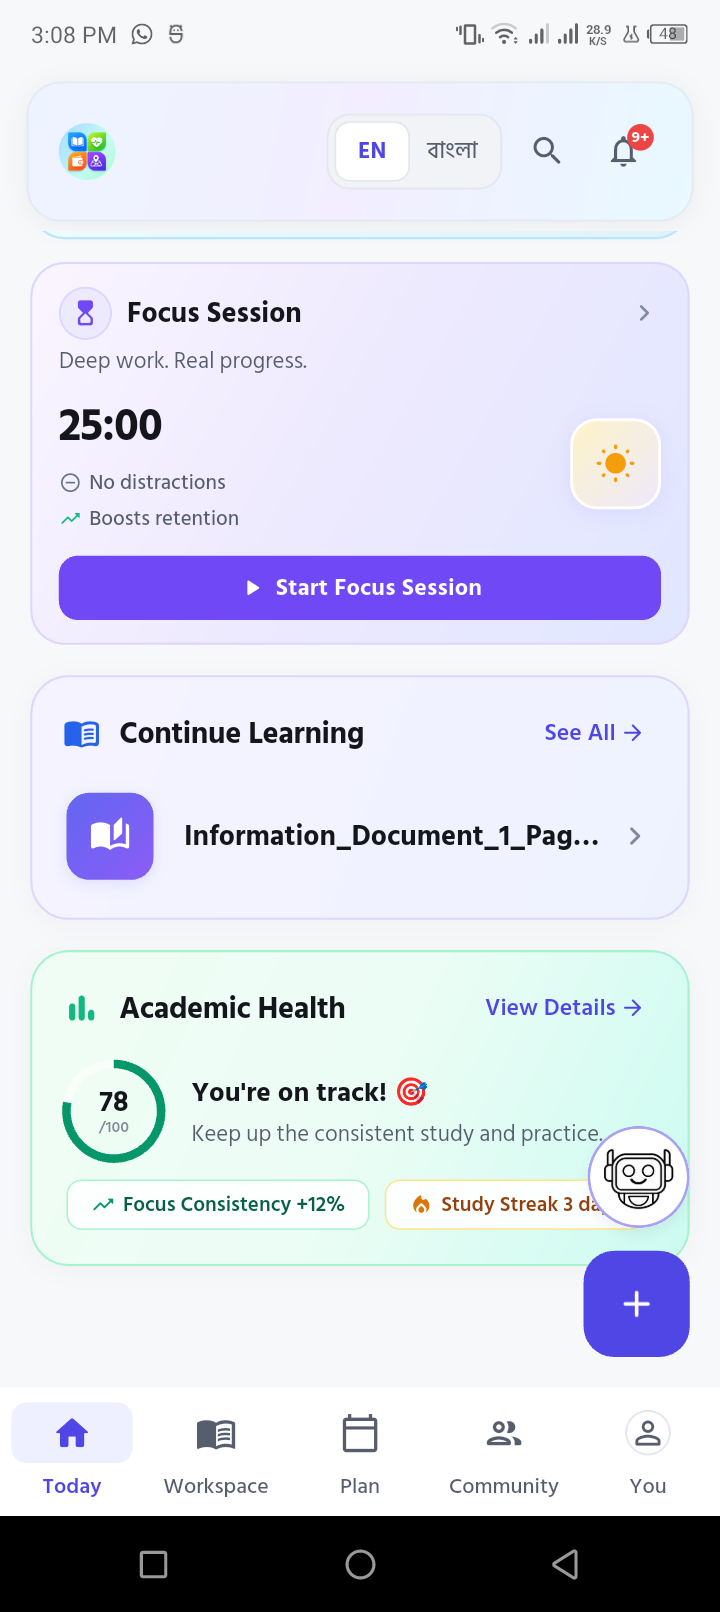
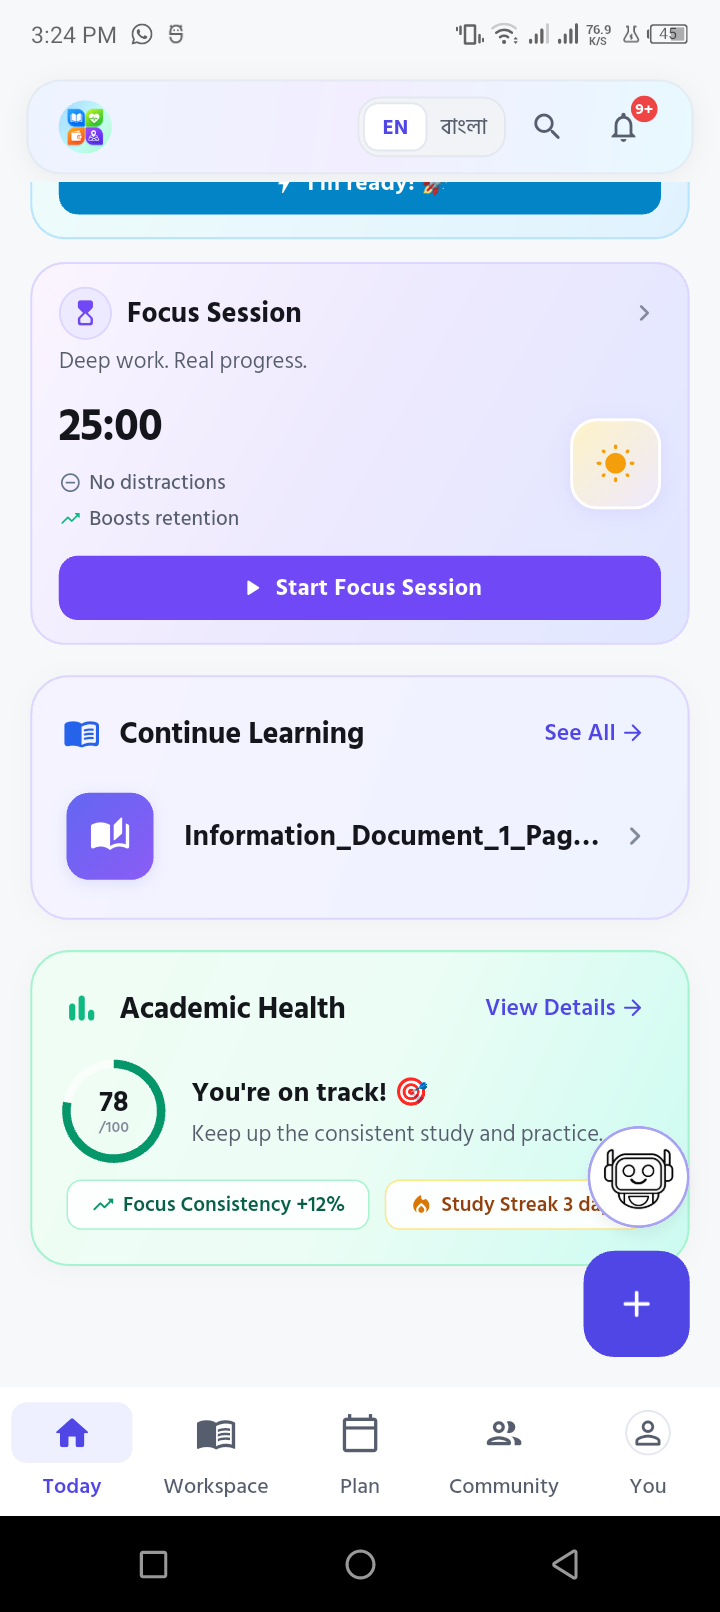
refactor(ui): streamline Today app bar height and density

Changed region(s): [[0.0611, 0.062, 0.9167, 0.1551], [0.0611, 0.0, 0.0917, 0.031]]

diff --git a/flutter_app/lib/features/study/presentation/today/study_today_dashboard_view.dart b/flutter_app/lib/features/study/presentation/today/study_today_dashboard_view.dart
@@ -98,7 +98,7 @@ class _StudyTodayDashboardViewState extends State<StudyTodayDashboardView> {
                   return Padding(
                     padding: EdgeInsets.symmetric(
                       horizontal: horizontalInset,
-                      vertical: 5.0,
+                      vertical: 4.0,
                     ),
                     child: Container(
                       decoration: BoxDecoration(
@@ -122,7 +122,7 @@ class _StudyTodayDashboardViewState extends State<StudyTodayDashboardView> {
                       ),
                       padding: const EdgeInsets.symmetric(
                         horizontal: GochanoSpacing.md,
-                        vertical: GochanoSpacing.xs,
+                        vertical: 4.0,
                       ),
                       child: _buildHeader(context),
                     ),
@@ -235,7 +235,7 @@ class _StudyTodayDashboardViewState extends State<StudyTodayDashboardView> {
     return LayoutBuilder(
       builder: (context, constraints) {
         final isVeryNarrow = constraints.maxWidth < 340;
-        final logoSize = isVeryNarrow ? 30.0 : 34.0;
+        final logoSize = isVeryNarrow ? 28.0 : 30.0;
 
         return Row(
           children: [
@@ -253,7 +253,7 @@ class _StudyTodayDashboardViewState extends State<StudyTodayDashboardView> {
                 errorBuilder: (context, error, stackTrace) => Icon(
                   Icons.school_rounded,
                   color: const Color(0xFF2F6BFF),
-                  size: isVeryNarrow ? 20 : 24,
+                  size: isVeryNarrow ? 18 : 20,
                 ),
               ),
             ),
@@ -261,8 +261,8 @@ class _StudyTodayDashboardViewState extends State<StudyTodayDashboardView> {
             const Spacer(),
 
             // RIGHT: Controls
-            const LanguageToggle(),
-            const SizedBox(width: 4),
+            const LanguageToggle(isCompact: true),
+            const SizedBox(width: 2),
 
             // Search icon
             IconButton(
@@ -272,12 +272,12 @@ class _StudyTodayDashboardViewState extends State<StudyTodayDashboardView> {
                 );
               },
               tooltip: GochanoLanguage.text('Search', 'অনুসন্ধান'),
-              icon: Icon(Icons.search_rounded, size: isVeryNarrow ? 20 : 22),
-              padding: isVeryNarrow ? const EdgeInsets.all(4) : const EdgeInsets.all(8),
+              icon: Icon(Icons.search_rounded, size: isVeryNarrow ? 19 : 20),
+              padding: const EdgeInsets.all(4),
               visualDensity: VisualDensity.compact,
-              constraints: BoxConstraints(
-                minWidth: isVeryNarrow ? 32 : 38,
-                minHeight: isVeryNarrow ? 32 : 38,
+              constraints: const BoxConstraints(
+                minWidth: 32,
+                minHeight: 32,
               ),
             ),
 
@@ -302,21 +302,19 @@ class _StudyTodayDashboardViewState extends State<StudyTodayDashboardView> {
                       ),
                       icon: Icon(
                         Icons.notifications_outlined,
-                        size: isVeryNarrow ? 20 : 22,
+                        size: isVeryNarrow ? 19 : 20,
                       ),
-                      padding: isVeryNarrow
-                          ? const EdgeInsets.all(4)
-                          : const EdgeInsets.all(8),
+                      padding: const EdgeInsets.all(4),
                       visualDensity: VisualDensity.compact,
-                      constraints: BoxConstraints(
-                        minWidth: isVeryNarrow ? 32 : 38,
-                        minHeight: isVeryNarrow ? 32 : 38,
+                      constraints: const BoxConstraints(
+                        minWidth: 32,
+                        minHeight: 32,
                       ),
                     ),
                     if (unreadCount > 0)
                       Positioned(
-                        top: 4,
-                        right: 4,
+                        top: 2,
+                        right: 2,
                         child: Container(
                           padding: const EdgeInsets.all(2),
                           decoration: const BoxDecoration(

diff --git a/flutter_app/lib/widgets/language_toggle.dart b/flutter_app/lib/widgets/language_toggle.dart
@@ -16,7 +16,12 @@ import '../core/design_system/gochano_typography.dart';
 import '../core/localization/gochano_language.dart';
 
 class LanguageToggle extends StatelessWidget {
-  const LanguageToggle({super.key});
+  const LanguageToggle({
+    super.key,
+    this.isCompact = false,
+  });
+
+  final bool isCompact;
 
   @override
   Widget build(BuildContext context) {
@@ -26,9 +31,11 @@ class LanguageToggle extends StatelessWidget {
       valueListenable: GochanoLanguage.current,
       builder: (context, currentLocale, _) {
         return Padding(
-          padding: const EdgeInsets.symmetric(vertical: GochanoSpacing.xs),
+          padding: EdgeInsets.symmetric(
+            vertical: isCompact ? 0 : GochanoSpacing.xs,
+          ),
           child: Container(
-            padding: const EdgeInsets.all(3),
+            padding: EdgeInsets.all(isCompact ? 2 : 3),
             decoration: BoxDecoration(
               color: colors.surfaceVariant,
               borderRadius: BorderRadius.circular(GochanoRadius.md),
@@ -38,7 +45,11 @@ class LanguageToggle extends StatelessWidget {
               mainAxisSize: MainAxisSize.min,
               children: [
                 for (final locale in GochanoLocale.values)
-                  _Segment(locale: locale, selected: currentLocale == locale),
+                  _Segment(
+                    locale: locale,
+                    selected: currentLocale == locale,
+                    isCompact: isCompact,
+                  ),
               ],
             ),
           ),
@@ -49,10 +60,15 @@ class LanguageToggle extends StatelessWidget {
 }
 
 class _Segment extends StatelessWidget {
-  const _Segment({required this.locale, required this.selected});
+  const _Segment({
+    required this.locale,
+    required this.selected,
+    this.isCompact = false,
+  });
 
   final GochanoLocale locale;
   final bool selected;
+  final bool isCompact;
 
   @override
   Widget build(BuildContext context) {
@@ -66,11 +82,14 @@ class _Segment extends StatelessWidget {
         onTap: () => GochanoLanguage.select(locale),
         borderRadius: BorderRadius.circular(GochanoRadius.sm),
         child: Container(
-          constraints: const BoxConstraints(minWidth: 40, minHeight: 32),
+          constraints: BoxConstraints(
+            minWidth: isCompact ? 34 : 40,
+            minHeight: isCompact ? 26 : 32,
+          ),
           alignment: Alignment.center,
-          padding: const EdgeInsets.symmetric(
-            horizontal: GochanoSpacing.xs,
-            vertical: 4,
+          padding: EdgeInsets.symmetric(
+            horizontal: isCompact ? 6 : GochanoSpacing.xs,
+            vertical: isCompact ? 2 : 4,
           ),
           decoration: BoxDecoration(
             color: selected ? colors.surface : Colors.transparent,
@@ -84,6 +103,7 @@ class _Segment extends StatelessWidget {
             style: context.type.caption.copyWith(
               color: selected ? colors.brand : colors.textSecondary,
               fontWeight: selected ? FontWeight.w700 : FontWeight.w500,
+              fontSize: isCompact ? 11 : null,
             ),
           ),
         ),

diff --git a/flutter_app/test/study_today_dashboard_test.dart b/flutter_app/test/study_today_dashboard_test.dart
@@ -249,8 +249,8 @@ void main() {
       final initialHeaderTop = tester.getTopLeft(find.byType(LanguageToggle)).dy;
       final initialGreetingTop = tester.getTopLeft(find.byType(AppGreetingCard)).dy;
 
-      // Scroll CustomScrollView up by 80px
-      await tester.drag(find.byType(CustomScrollView), const Offset(0, -80));
+      // Scroll CustomScrollView up by 30px
+      await tester.drag(find.byType(CustomScrollView), const Offset(0, -30));
       await tester.pumpAndSettle();
 
       // FIXED HEADER: Top coordinate does not move even when scrolled

diff --git a/UI_REDESIGN_PROGRESS_REPORT.md b/UI_REDESIGN_PROGRESS_REPORT.md
@@ -477,15 +477,15 @@ Checked commit `42f3414` contents against current HEAD (`1341fe6`) to ensure zer
 - **Device**: Infinix X665E (Android 12, product `X665E-GL`, model `Infinix_X665E`, transport id 2) connected via ADB TLS bridge.
 - **Runtime Configuration**: Authenticated debug build (`API_BASE_URL=https://ekthikana-api-x473.onrender.com`, `DEV_AUTH_BYPASS=true`, test account `QA Studentv`).
 - **Physical Inspection Results**:
-  - **Pinned Floating Inset Header**: Visually verified. Floating gradient bar with 14dp left/right inset, 5dp top/bottom vertical margin, and smooth 18dp rounded corners.
-  - **Header Actions**: Logo mark on left; `[EN | বাংলা]` toggle, Search icon, and Notification icon with red `9+` badge on right. Zero Gochano text, zero tagline, zero avatar in header.
+  - **Pinned Floating Inset Header (Ultra-Compact Refinement)**: Visually verified. Floating gradient bar with 14dp left/right inset, 4dp top/bottom vertical margin, 4dp internal vertical padding, and smooth 18dp rounded corners. App bar height streamlined to ~46dp.
+  - **Header Actions**: Logo mark scaled to 30dp on left; compact `[EN | বাংলা]` toggle (`isCompact: true`, 26dp height), Search icon (32x32 hit area), and Notification icon with red `9+` badge on right. Zero Gochano text, zero tagline, zero avatar in header.
   - **Scroll Stability**: Header remains permanently pinned at the top across top, mid, and bottom scroll positions. No RenderFlex overflows, no body overlap, no clipping.
   - **Body Elements**: Dynamic time-based greeting ("Good Afternoon, QA Studentv 👋"), Exam Rescue hero card ("optical"), grouped Priorities ("All priorities clear!"), Ziku Coach card, Focus Session card, Continue Learning grouped card, Academic Health grouped score ring ("78/100").
   - **Bottom Navigation**: 5 items (`Today`, `Workspace`, `Plan`, `Community`, `You` with profile avatar).
 - **Physical Screenshots Captured**:
-  - `physical_today_final_top.png` (256,666 bytes): Top viewport showing floating inset header, greeting, Exam Rescue hero card, Priorities, and Ziku Coach.
-  - `physical_today_final_mid.png` (230,064 bytes): Mid viewport showing pinned inset header, Ziku Coach, Focus Session (25:00), Continue Learning, and Academic Health.
-  - `physical_today_final_bottom.png` (186,078 bytes): Bottom viewport showing pinned inset header, Focus Session, Continue Learning, Academic Health (78/100), and Bottom Navigation.
+  - `physical_today_final_top.png` (255,909 bytes): Top viewport showing the ultra-compact floating inset header, greeting, Exam Rescue hero card, Priorities, and Ziku Coach.
+  - `physical_today_final_mid.png` (228,819 bytes): Mid viewport showing pinned compact inset header, Ziku Coach, Focus Session (25:00), Continue Learning, and Academic Health.
+  - `physical_today_final_bottom.png` (185,412 bytes): Bottom viewport showing pinned compact inset header, Focus Session, Continue Learning, Academic Health (78/100), and Bottom Navigation.
 
 #### 6. Audit Verdict
 - **Status**: **PHYSICAL REVIEW PASSED — WAITING USER FINAL APPROVAL**
